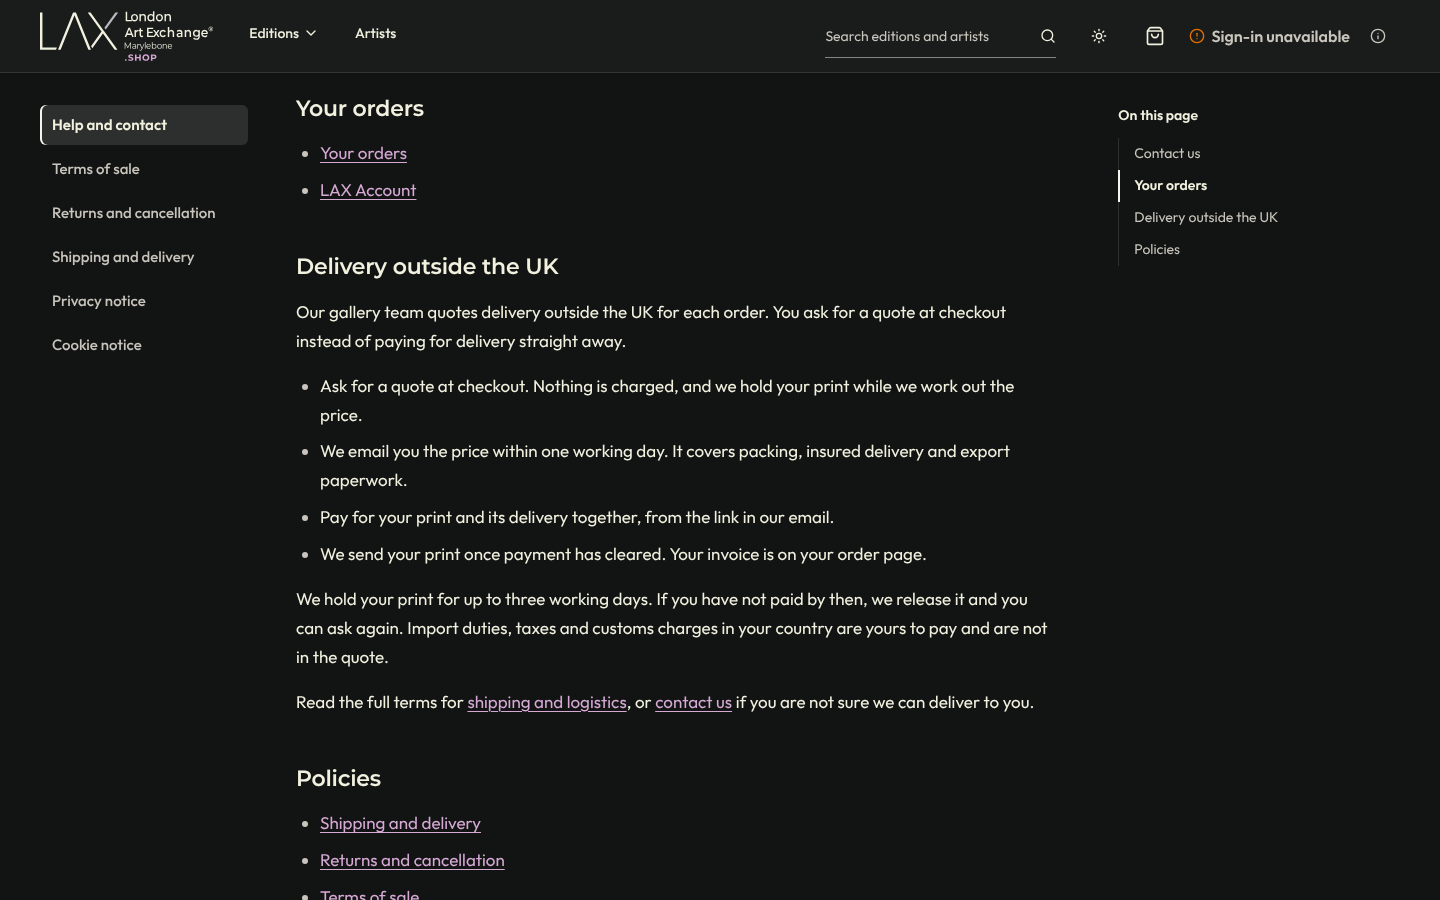
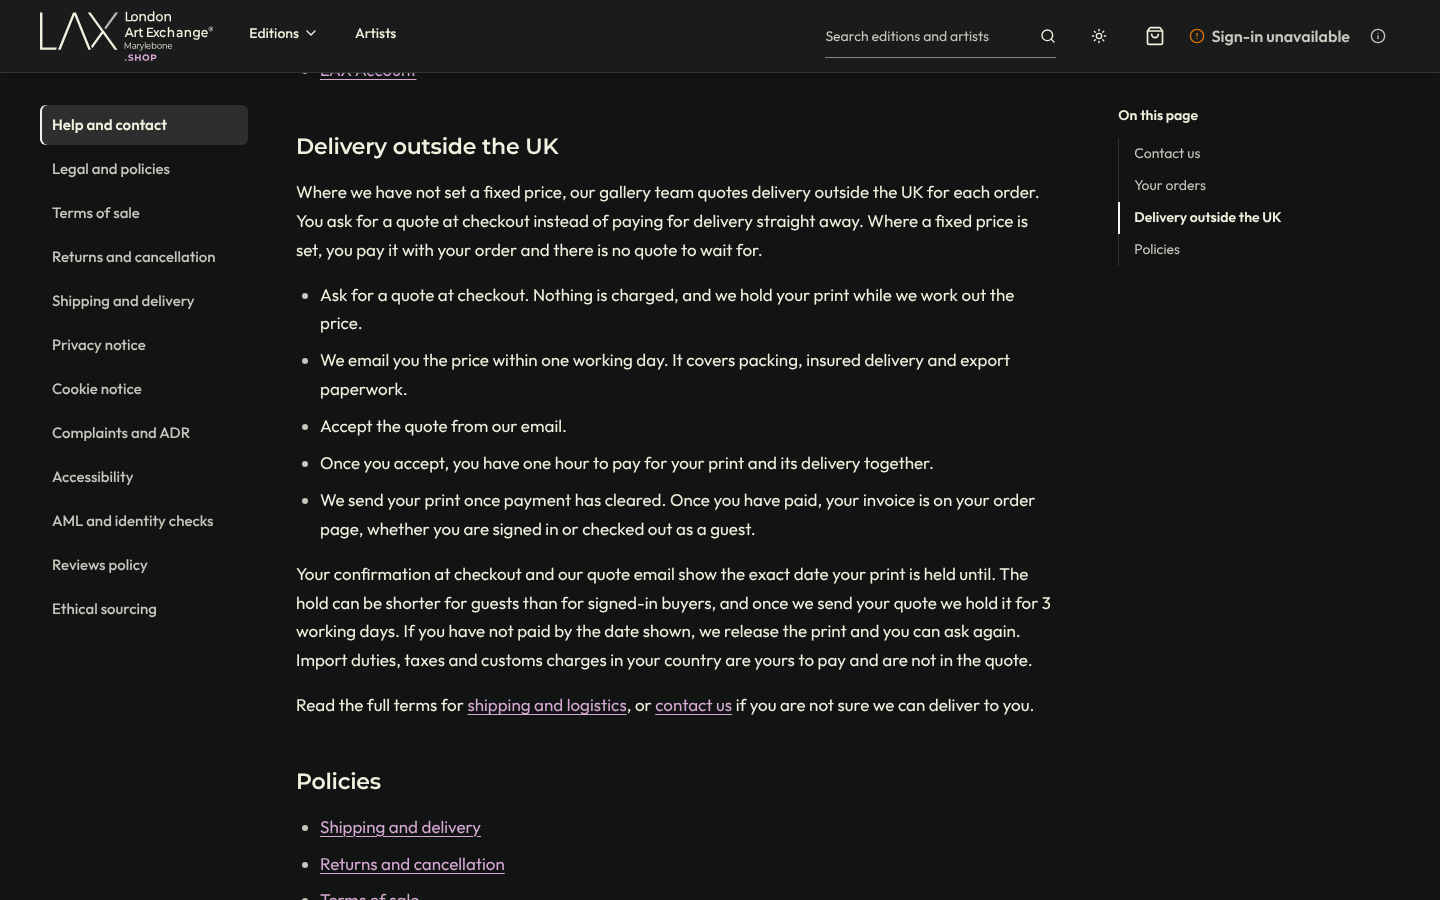
Shop help: describe the accept step, payment window, hold dates and fixed-price regions
The delivery outside the UK entry now says the buyer accepts the quote and
then has the payment window (from QUOTE_PAYMENT_WINDOW_MS) to pay, points to
the exact hold date in the checkout confirmation and quote email instead of a
single 'up to three working days', and leads with the no-fixed-price case.
The invoice sentence covers guests and signed-in buyers. Screenshots are
re-captured as true viewport renders at 1440 and 375.

diff --git a/apps/shop/src/content/policies/help.ts b/apps/shop/src/content/policies/help.ts
@@ -1,5 +1,6 @@
 import { GALLERY_CONTACT } from "@auction/branding";
 import { LAX_ART_POLICIES, type LegalPolicyDocument } from "@auction/marketing-ui";
+import { QUOTE_HOLD_WORKING_DAYS, QUOTE_PAYMENT_WINDOW_MS } from "@auction/shop-domain";
 import { SHOP_POLICY_PATHS, SHOP_POLICY_SOURCES } from "./shop-policy-status";
 
 /** Contact details for the help page; the phone and email are the gallery's, from the shared contact. */
@@ -9,6 +10,18 @@ export const SHOP_HELP_CONTACT = {
   phone: `Phone: ${GALLERY_CONTACT.phone}`,
   address: "156 New Cavendish St, London W1W 6YW",
 } as const;
+
+const plural = (count: number, unit: string) => `${count} ${unit}${count === 1 ? "" : "s"}`;
+
+/** "one hour" or "30 minutes", from the payment window the quote flow really applies. */
+export function quotePaymentWindowWords(ms: number = QUOTE_PAYMENT_WINDOW_MS): string {
+  const minutes = Math.round(ms / 60_000);
+  if (minutes % 60 === 0) {
+    const hours = minutes / 60;
+    return hours === 1 ? "one hour" : plural(hours, "hour");
+  }
+  return plural(minutes, "minute");
+}
 
 const label = (slug: keyof typeof SHOP_POLICY_SOURCES) =>
   LAX_ART_POLICIES[SHOP_POLICY_SOURCES[slug]].label;
@@ -56,20 +69,21 @@ export function buildShopHelpDocument(input: {
         blocks: [
           {
             type: "paragraph",
-            text: "Our gallery team quotes delivery outside the UK for each order. You ask for a quote at checkout instead of paying for delivery straight away.",
+            text: "Where we have not set a fixed price, our gallery team quotes delivery outside the UK for each order. You ask for a quote at checkout instead of paying for delivery straight away. Where a fixed price is set, you pay it with your order and there is no quote to wait for.",
           },
           {
             type: "list",
             items: [
               "Ask for a quote at checkout. Nothing is charged, and we hold your print while we work out the price.",
               "We email you the price within one working day. It covers packing, insured delivery and export paperwork.",
-              "Pay for your print and its delivery together, from the link in our email.",
-              "We send your print once payment has cleared. Your invoice is on your order page.",
+              "Accept the quote from our email.",
+              `Once you accept, you have ${quotePaymentWindowWords()} to pay for your print and its delivery together.`,
+              "We send your print once payment has cleared. Once you have paid, your invoice is on your order page, whether you are signed in or checked out as a guest.",
             ],
           },
           {
             type: "paragraph",
-            text: "We hold your print for up to three working days. If you have not paid by then, we release it and you can ask again. Import duties, taxes and customs charges in your country are yours to pay and are not in the quote.",
+            text: `Your confirmation at checkout and our quote email show the exact date your print is held until. The hold can be shorter for guests than for signed-in buyers, and once we send your quote we hold it for ${plural(QUOTE_HOLD_WORKING_DAYS, "working day")}. If you have not paid by the date shown, we release the print and you can ask again. Import duties, taxes and customs charges in your country are yours to pay and are not in the quote.`,
           },
           {
             type: "paragraph",

diff --git a/apps/shop/src/content/policies/shop-policies.test.ts b/apps/shop/src/content/policies/shop-policies.test.ts
@@ -1,5 +1,7 @@
 import { LAX_ART_POLICIES } from "@auction/marketing-ui";
+import { QUOTE_HOLD_WORKING_DAYS, QUOTE_PAYMENT_WINDOW_MS } from "@auction/shop-domain";
 import { describe, expect, it } from "vitest";
+import { quotePaymentWindowWords } from "./help";
 import {
   OUTSIDE_UK_HELP_HREF,
   SHOP_POLICY_DOCUMENTS,
@@ -86,10 +88,45 @@ describe("the help page's delivery outside the UK entry", () => {
     expect(section?.heading).toBe("Delivery outside the UK");
     expect(OUTSIDE_UK_HELP_HREF).toBe("/help#delivery-outside-uk");
     const text = shopPolicyTexts({ ...help, sections: section ? [section] : [] }).join("\n");
-    expect(text).toContain("Our gallery team quotes delivery outside the UK");
+    expect(text).toContain("our gallery team quotes delivery outside the UK");
     expect(text).toContain("within one working day");
-    expect(text).toContain("Pay for your print and its delivery together");
-    expect(text).toContain("up to three working days");
+    expect(text).toContain("pay for your print and its delivery together");
+  });
+
+  const sectionText = () => {
+    const help = build(null);
+    const section = help.sections.find((s) => s.id === "delivery-outside-uk");
+    return shopPolicyTexts({ ...help, sections: section ? [section] : [] }).join("\n");
+  };
+
+  it("has the buyer accept the quote, then pay within the payment window", () => {
+    const text = sectionText();
+    expect(text).toContain("Accept the quote from our email");
+    expect(text).toContain(`you have ${quotePaymentWindowWords(QUOTE_PAYMENT_WINDOW_MS)} to pay`);
+    expect(quotePaymentWindowWords(60 * 60 * 1000)).toBe("one hour");
+    expect(quotePaymentWindowWords(90 * 60 * 1000)).toBe("90 minutes");
+    expect(quotePaymentWindowWords(2 * 60 * 60 * 1000)).toBe("2 hours");
+    expect(text).not.toContain("from the link in our email");
+  });
+
+  it("sends buyers to the dates in their confirmation and quote email, not one hold for all", () => {
+    const text = sectionText();
+    expect(text).toContain("confirmation at checkout and our quote email show the exact date");
+    expect(text).toContain("shorter for guests");
+    expect(text).toContain(`${QUOTE_HOLD_WORKING_DAYS} working days`);
+    expect(text).not.toContain("up to three working days");
+  });
+
+  it("leads with the fixed-price case so it stays true when a region has a fixed price", () => {
+    const text = sectionText();
+    expect(text).toMatch(/(^|\n)Where we have not set a fixed price, our gallery team quotes/);
+    expect(text).toContain("Where a fixed price is set, you pay it with your order");
+  });
+
+  it("claims the invoice for guests and signed-in buyers alike, only once paid", () => {
+    expect(sectionText()).toContain(
+      "Once you have paid, your invoice is on your order page, whether you are signed in or checked out as a guest",
+    );
   });
 
   it("points the full terms at lax.bid/shipping as a plain link", () => {
